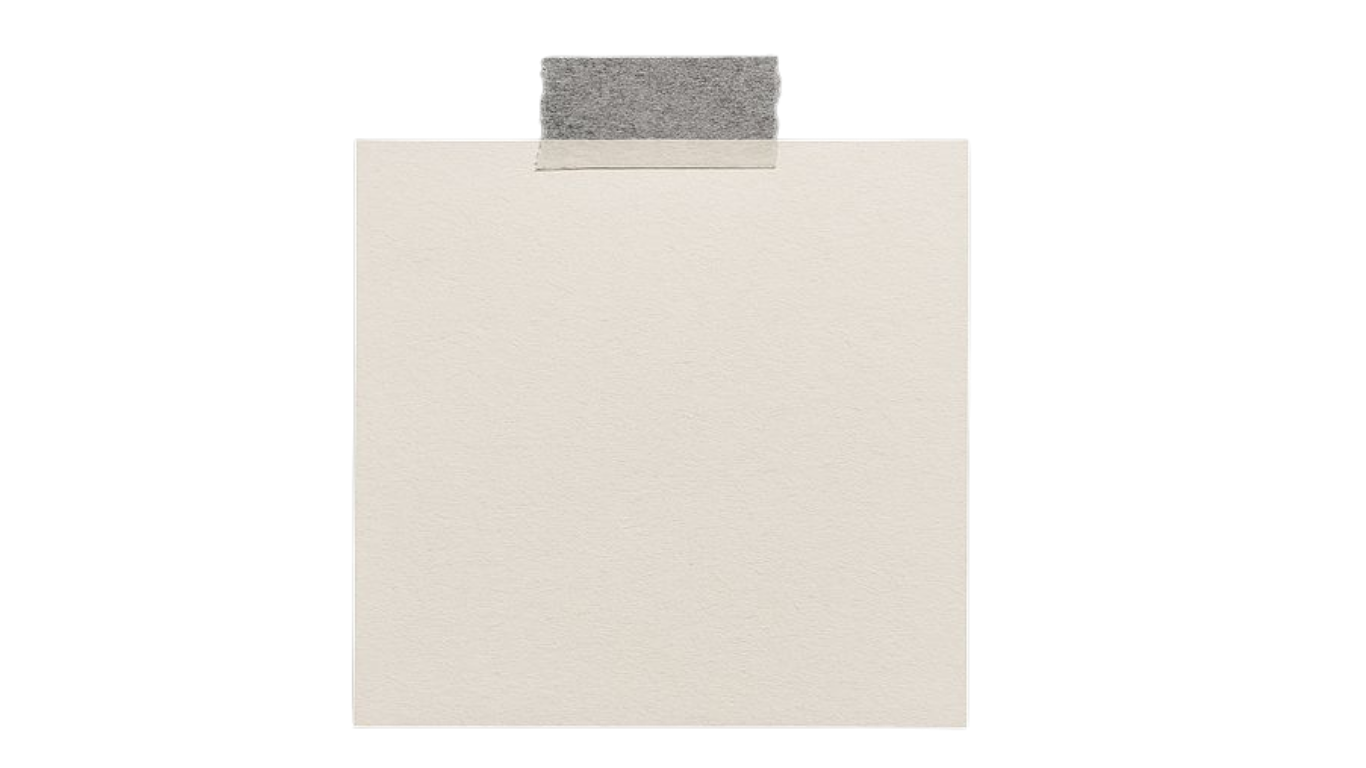
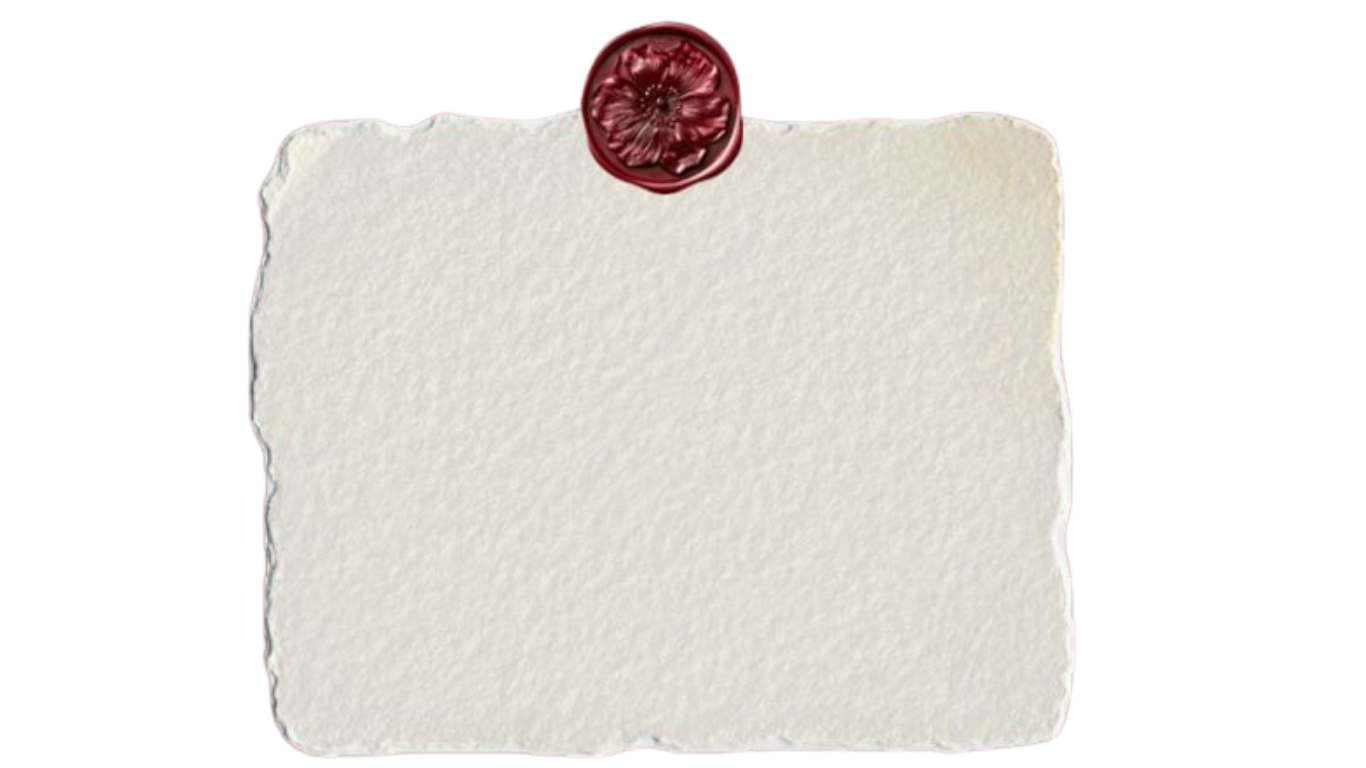
contact: new note image, note left/up, centered text, wrap left-aligned

Changed region(s): [[0.1845, 0.0312, 0.7994, 1.0]]

diff --git a/app/contact/page.tsx b/app/contact/page.tsx
@@ -21,14 +21,13 @@ export default function ContactPage() {
             alignItems: "flex-start",
             justifyContent: "space-between",
             gap: "2rem",
-            padding: "5rem clamp(2rem, 8vw, 8rem)",
-            paddingTop: "calc(80px + 3rem)",
+            padding: "5rem clamp(1rem, 4vw, 4rem)",
+            paddingTop: "calc(80px + 1rem)",
           }}
         >
-          {/* Left / center — note image */}
-          <div style={{ flex: 3, display: "flex", justifyContent: "center", alignItems: "center" }}>
+          {/* Left — note image */}
+          <div style={{ flex: 3, display: "flex", justifyContent: "flex-start", alignItems: "flex-start" }}>
             <div style={{ transformOrigin: "top center", animation: "noteSwing 4s ease-in-out infinite", display: "inline-block", position: "relative" }}>
-              {/* note.png as background card */}
               <div style={{ position: "relative", width: "clamp(700px, 75vw, 1100px)" }}>
                 <img src="/note.png" alt="" style={{ width: "100%", display: "block" }} />
                 {/* Text overlaid on note */}
@@ -71,7 +70,7 @@ export default function ContactPage() {
           </div>
 
           {/* Right — "and that's a Wrap" */}
-          <div style={{ flex: 1, display: "flex", justifyContent: "center", alignItems: "flex-start", paddingTop: "2rem" }}>
+          <div style={{ flex: 1, display: "flex", justifyContent: "flex-start", alignItems: "flex-start", paddingTop: "2rem" }}>
             <div style={{ textAlign: "left" }}>
               <div style={{ fontFamily: "PerandoryCondensed, sans-serif", fontWeight: "normal", fontSize: "clamp(1.2rem, 2vw, 2rem)", color: "#f5f0f0", letterSpacing: "0.02em", marginBottom: "0.4rem" }}>
                 and that&apos;s a
